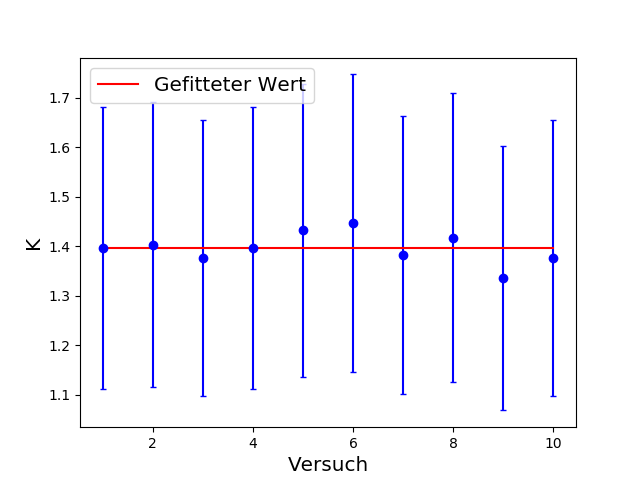
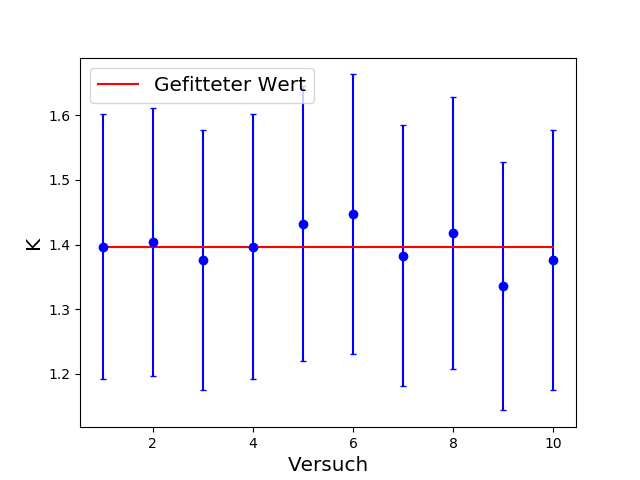
Korrigierte Fehler in plots von Schwing1 und Schwing2

diff --git a/scripts/plot.py b/scripts/plot.py
@@ -9,7 +9,7 @@ from scipy.optimize import curve_fit
 =========================================='''
 #find the csv file with the data
 dataset_folder = "../Versuch10/datasets/"
-dataset_file_name = "wasser2"
+dataset_file_name = "schwing1"
 dataset_file_extension = ".csv"
 save_plot = True #attention! overwrites old plot with same name
 plot_folder = "../Versuch10/plots/"
@@ -21,18 +21,18 @@ add_origin = False
 show_plot = True
 
 #set the x and y data and errors
-x_column_caption = "h"
-y_column_caption = "h1"
-x_err_column_caption = "fh"
-y_err_column_caption = "fh1"
+x_column_caption = ""
+y_column_caption = "k"
+x_err_column_caption = "null"
+y_err_column_caption = "fk"
 #set axis labels and graph appearence
-x_label = "Wasserhoehe davor [mm] dh"
-y_label = "Wasserhoehe danach [mm] dh'"
-graph_format = "b." #respectively color and line style
+x_label = "Versuch"
+y_label = "K"
+graph_format = "bo" #respectively color and line style
 axes_label_fontsize = "x-large"
 error_bar_capsize = 2
 #fit setup
-function_to_fit = ft.linear2
+function_to_fit = ft.constant
 fit_graph_format = "r-"
 fit_samples_number = 150
 show_parameter_table = True
@@ -40,7 +40,7 @@ show_parameter_table = True
 legend_location = "upper left"
 legend_fontsize = "x-large"
 raw_graph_label = ""
-fitted_graph_label = "Gefitteter Linearer Verlauf"
+fitted_graph_label = "Gefitteter Wert"
 #indexes of datapoints to discard
 discard_datapoints_indexes = []
 
@@ -155,7 +155,8 @@ if (fit):
         param_txt.write ("; Covariance: ")
         for co in pcov: #writes covariance matrix
             param_txt.write(str(co) + " ")
-        param_txt.write("; K = {}".format(str(1/(1-popt[0])))) #calculates K from steigung
+        #param_txt.write("; K = {}".format(str(1/(1-popt[0])))) #calculates K from steigung
+        param_txt.write("; K = "+ str(popt[0])) #calculates K from steigung
         param_txt.close()
 
 plot(x_values, y_values, x_label, y_label, x_err_values, y_err_values)
